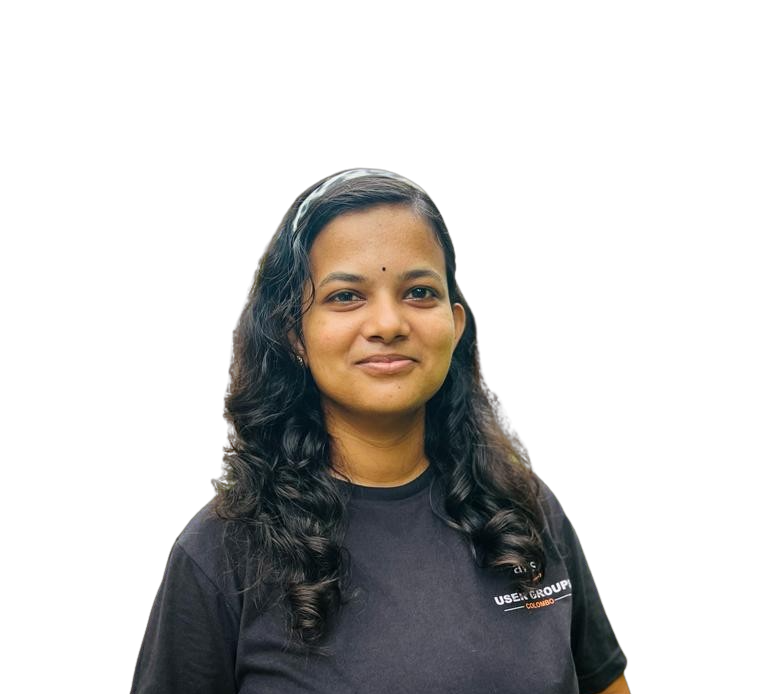
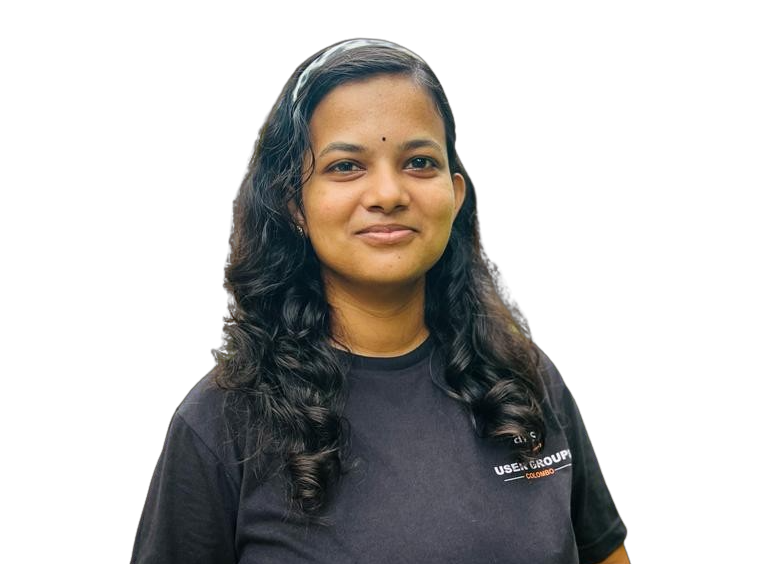
responsive added

Changed region(s): [[0.1875, 0.0603, 0.8438, 0.9947], [0.1562, 0.9043, 0.1875, 0.9645]]

diff --git a/index.html b/index.html
@@ -71,13 +71,14 @@
 	      	<div class="overlay"></div>
 	        <div class="container">
 	          <div class="row d-flex no-gutters slider-text align-items-end justify-content-end" data-scrollax-parent="true">
-	          	<div class="one-third js-fullheight order-md-last img" style="background-image:url(images/single_full-removebg.png);">
+	          	<div class="one-third js-fullheight order-md-last img" style="background-image:url(images/profile_croped.png);">
 	          		<div class="overlay"></div>
 	          	</div>
 		          <div class="one-forth d-flex align-items-center ftco-animate" data-scrollax=" properties: { translateY: '70%' }">
 		          	<div class="text">
 		          		<span class="subheading">Hello!</span>
-			            <h1 class="mb-4 mt-3">I'm a <span>web Developer and UI/UX Designer</span></h1>
+			            <h1 class="mb-4 mt-3">I'm a <span>web Developer , UI/UX Designer </span></h1>
+						<h2 class="mb-4">An Aiesecer</h2>
 			            <p><a href="#" class="btn btn-primary py-3 px-4">Hire me</a> <a href="#" class="btn btn-white btn-outline-white py-3 px-4">My works</a></p>
 		            </div>
 		          </div>
@@ -90,14 +91,14 @@
     <section class="ftco-about img ftco-section ftco-no-pb" id="about-section">
     	<div class="container">
     		<div class="row d-flex">
-    			<div class="col-md-6 col-lg-5 d-flex">
+    			<div class="col-md-5 order-md-first d-flex">
     				<div class="img-about img d-flex align-items-stretch">
     					<div class="overlay"></div>
-	    				<div class="img d-flex align-self-stretch align-items-center" style="background-image:url(images/3_image.png);">
+	    				<div class="img d-flex align-self-stretch align-items-center" style="background-image:url(images/3_image.png);height: 580px;">
 	    				</div>
     				</div>
     			</div>
-    			<div class="col-md-6 col-lg-7 pl-lg-5 pb-5">
+    			<div class="col-md-7 order-md-last d-flex">
     				<div class="row justify-content-start pb-3">
 		          <div class="col-md-12 heading-section ftco-animate">
 		          	<h1 class="big">About</h1>
@@ -106,23 +107,24 @@
 		            <ul class="about-info mt-4 px-md-0 px-2">
 		            	<li class="d-flex"><span>Name:</span> <span>Danuraha Thevanayagam</span></li>
 		            	<li class="d-flex"><span>Date of birth:</span> <span>April 09, 1999</span></li>
-		            	<li class="d-flex"><span>Address:</span> <span>Katubedda,Moratuwa,SriLanka</span></li>
+		            	<li class="d-flex"><span>Home Address:</span> <span>Navalady Road,Koddaikallar-01,Sri Lanka.</span></li>
 		            	<li class="d-flex"><span>Post code:</span> <span>30249</span></li>
 		            	<li class="d-flex"><span>Email:</span> <span>danurahatheva@gmail.com</span></li>
 		            	<li class="d-flex"><span>Phone: </span> <span>+94 768 310 935</span></li>
 		            </ul>
 		          </div>
 		        </div>
-	          <div class="counter-wrap ftco-animate d-flex mt-md-3">
-              <div class="text">
-              	
-                <p><a href="https://drive.google.com/file/d/1_sGASfy8EgQk_8rzKFrRq2mjPSREzFEF/view?usp=sharing" class="btn btn-primary py-3 px-3">Download CV</a></p>
-              </div>
-	          </div>
+	          
 	        </div>
         </div>
     	</div>
     </section>
+	<div class="counter-wrap ftco-animate d-flex mt-md-3 justify-content-center">
+		<div class="text">
+		  <p><a href="https://drive.google.com/file/d/1_sGASfy8EgQk_8rzKFrRq2mjPSREzFEF/view?usp=sharing" class="btn btn-primary py-3 px-3">Download CV</a></p>
+		</div>
+	  </div>
+	  
 
     <section class="ftco-section ftco-no-pb" id="resume-section">
     	<div class="container">
@@ -174,7 +176,7 @@
     		</div>
     		<div class="row justify-content-center mt-5">
     			<div class="col-md-6 text-center ftco-animate">
-    				<p><a href="https://www.linkedin.com/in/danuraha-thevanayagam" class="btn btn-primary py-4 px-5"> Visit LinkeIn Profile</a></p>
+    				<p><a href="https://www.linkedin.com/in/danuraha-thevanayagam" class="btn btn-primary py-3 px-4"> Visit LinkeIn Profile</a></p>
     			</div>
     		</div>
     	</div>
@@ -686,7 +688,7 @@
           
           </div>
 
-          <div class="col-md-6 d-flex">
+          <div class="col-md-6 order-md-first d-flex">
           	<div class="img" style="background-image: url(images/single\ photo.jpg);"></div>
           </div>
         </div>

diff --git a/css/bootstrap/bootstrap-reboot.css b/css/bootstrap/bootstrap-reboot.css
@@ -1,10 +1,4 @@
-/*!
- * Bootstrap Reboot v4.2.1 (https://getbootstrap.com/)
- * Copyright 2011-2018 The Bootstrap Authors
- * Copyright 2011-2018 Twitter, Inc.
- * Licensed under MIT (https://github.com/twbs/bootstrap/blob/master/LICENSE)
- * Forked from Normalize.css, licensed MIT (https://github.com/necolas/normalize.css/blob/master/LICENSE.md)
- */
+
 *,
 *::before,
 *::after {
